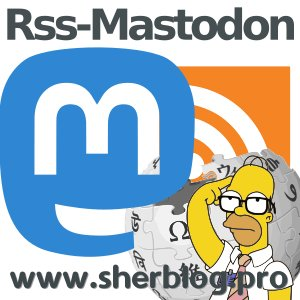
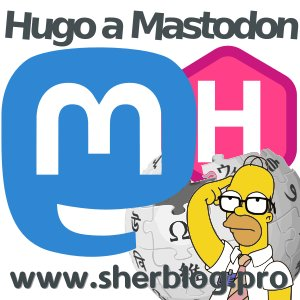
deploy: 9ede890d2a849c14f80409557ac6041a2e8703c6

diff --git a/del-blog-a-twitter-mediante-rss-y-bash/index.html b/del-blog-a-twitter-mediante-rss-y-bash/index.html
@@ -15,7 +15,7 @@
 #Script Name: rss2twiter.sh
 #Description: Generación de Tweet cuando hay un nuevo post del blog
 #Args: N/A
-#Creation/Update: 20220326/20220331
+#Creation/Update: 20220326/20221213
 #Author: www.sherblog.pro                                             
 #Email: sherlockes@gmail.com                               
 ###################################################################
@@ -27,6 +27,10 @@
 RUTA=~/temp
 RSS_URL=&#34;https://sherblog.pro/index.xml&#34;
 TWEETSH_URL=&#34;https://raw.githubusercontent.com/piroor/tweet.sh/trunk/tweet.sh&#34;
+INSTANCIA=&#34;https://emacs.ch&#34;
+
+# Carga los parámetros del archivo de configuración en el directorio de usuario
+. ~/config.conf
 
 ################################
 ####      Dependencias      ####
@@ -75,7 +79,12 @@ then
     # Compara el ultimo link con el actual
     if [[ $LINK_ULTIMO != $LINK_ACTUAL ]]
     then
+	# Publicando para Twitter
 	bash $RUTA/tweet.sh post $LINK_ACTUAL
+
+	# Publicando para Mastodon
+	curl $INSTANCIA/api/v1/statuses -H &#34;Authorization: Bearer $TOKENM&#34; -F &#34;status=Lo último de mi blog $LINK_ACTUAL&#34;
+	
 	echo &#34;publicando un enlace&#34;
     fi
 fi
